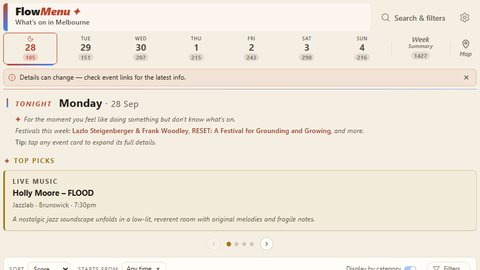
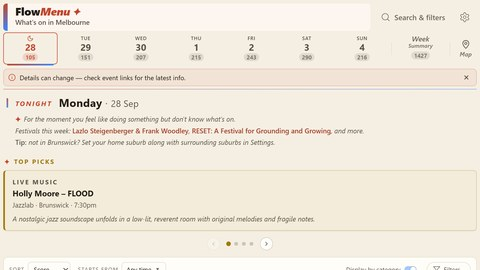
Rebuild qMuVi page and polish 404, research and FlowMenu
- qMuVi: crisp hero frame, embedded showcase video, how it works, example code, origins and tech list
- Code blocks always dark with larger text so highlighting is readable in light mode
- 404 badge shows a broken path
- Remove dead CQC2T link from the research caption
- Recapture FlowMenu screenshot at 2x as WebP

diff --git a/_sass/base/general.sass b/_sass/base/general.sass
@@ -111,22 +111,25 @@ pre > code,
 tt
 	padding: 1px 0
 	font-family: $fontMonospace
-	font-size: 12px
-	line-height: 20px
-	background: $omega
+	font-size: 14px
+	line-height: 22px
+	background: transparent
 	border-radius: 2px
 
 pre
 	box-sizing: border-box
 	margin: 0 0 1.75em 0
 	width: 100%
-	padding: 5px 10px
+	padding: 12px 16px
 	font-family: $fontMonospace
 	font-size: 1.2rem
 	line-height: 2rem
 	overflow: auto
-	background: $omega
-	border: 1px solid $epsilon
+	// always dark: the syntax highlighting colours are designed for a dark background
+	background: #1b1d21
+	color: #cdd0d5
+	border: 1px solid #2c2f36
+	border-radius: 8px
 	border-radius: 2px
 
 .wrapper-normal,

diff --git a/_sass/pages/post.sass b/_sass/pages/post.sass
@@ -71,6 +71,19 @@
     .post-figure > .sprite-row
         margin-bottom: 0
 
+    // responsive 16:9 video embed
+    .video
+        aspect-ratio: 16 / 9
+        margin: 0 0 30px
+        border-radius: 8px
+        overflow: hidden
+        background: #000
+
+        > iframe
+            width: 100%
+            height: 100%
+            border: 0
+
     .post-photo
         display: block
         width: 100%

diff --git a/404.html b/404.html
@@ -6,7 +6,7 @@ sitemap: false
 ---
 
 <section class="lost">
-  {% include icons/qubit-mark.svg %}
+  {% include icons/qubit-mark-broken.svg %}
   <h1>This path isn't connected</h1>
   <p>The page you're looking for doesn't exist or has moved.</p>
   <p><a class="button" href="{{ site.url }}/">Take me home</a></p>

diff --git a/research.md b/research.md
@@ -13,7 +13,7 @@ I've run experiments on both superconducting (IBM Quantum) and ion-trap (Quantin
 
 <figure class="research-figure">
   <img src="/assets/images/aqc_graphic-topdown.webp" alt="Particle visualisation of a complete graph embedded onto a quantum annealing architecture" loading="lazy">
-  <figcaption><b>Fig.</b> "Optimal embedding of a complete graph onto a quantum annealing architecture with nearest-neighbour couplings", my entry in the <a href="https://www.cqc2t.org/">CQC2T</a> Quantum Graphics Competition (2018). It shows a modified simulated annealing algorithm I wrote during my master's degree, rendered with Unity's Visual Effect Graph particle systems. Each node is a qubit, and qubits can only interact with their nearest neighbours on the grid, so a problem variable is represented by a cluster of connected qubits. Each cluster is drawn in one colour. The goal is to colour the clusters so that every coloured cluster connects to every other one, using as few nodes as possible.</figcaption>
+  <figcaption><b>Fig.</b> "Optimal embedding of a complete graph onto a quantum annealing architecture with nearest-neighbour couplings", my entry in the CQC2T Quantum Graphics Competition (2018). It shows a modified simulated annealing algorithm I wrote during my master's degree, rendered with Unity's Visual Effect Graph particle systems. Each node is a qubit, and qubits can only interact with their nearest neighbours on the grid, so a problem variable is represented by a cluster of connected qubits. Each cluster is drawn in one colour. The goal is to colour the clusters so that every coloured cluster connects to every other one, using as few nodes as possible.</figcaption>
 </figure>
 
 ## Highlights
